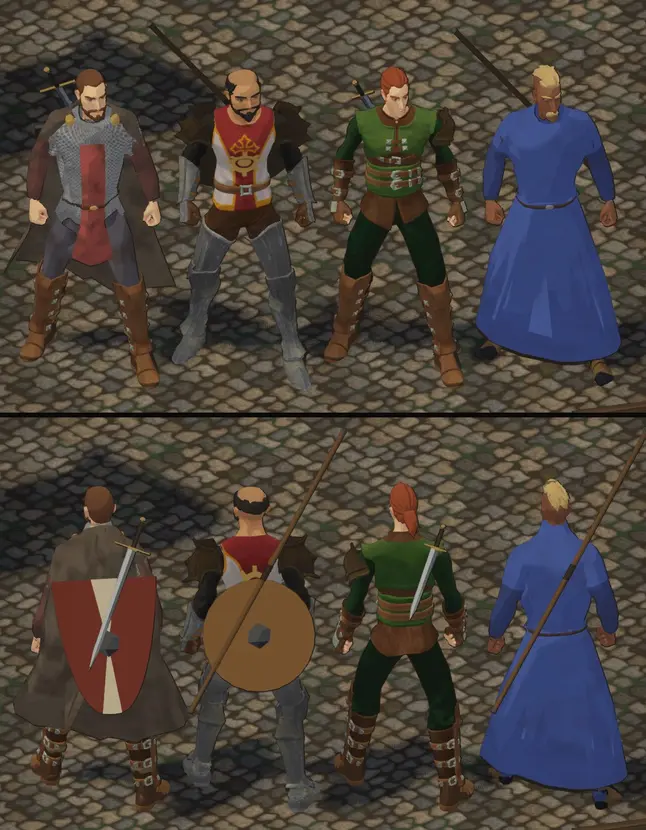
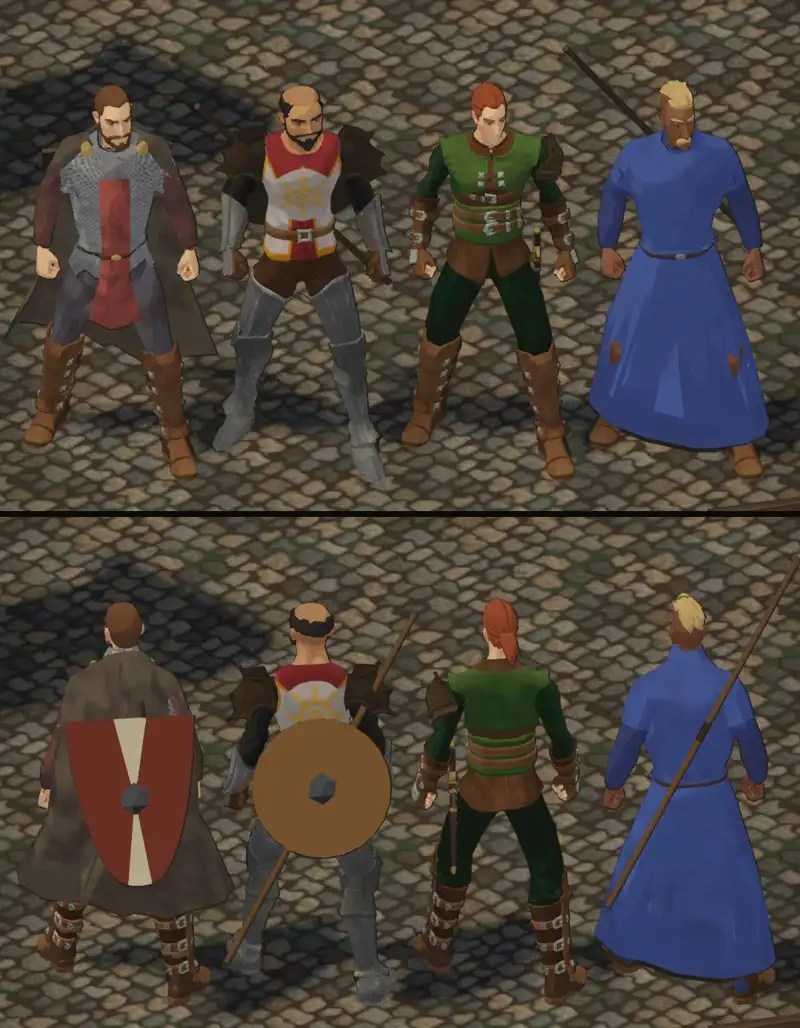
Tom: 376.1 Vorlage Wegstecken und Frisuren
Claude-Session: https://claude.ai/code/session_01Hmoj79vdf3C8wtR4JL21TF

diff --git a/docs/chefsache/ansehen/3761-wegstecken.md b/docs/chefsache/ansehen/3761-wegstecken.md
@@ -1,0 +1,26 @@
+# 376.1 · Waffen wegstecken, mehr Frisuren · Tom · 29.10., 11:38
+
+![376.1 Klassen](../bilder/3761-klassen.webp)
+
+Die vier Klassen von vorn und von hinten. Kämpfer und Kleriker tragen die Waffe auf dem Rücken unter dem Schild. Der Schurke trägt das Kurzschwert in der Scheide am Gürtel, der Zauberer den Stab schräg auf dem Rücken.
+
+![376.1 Waffen](../bilder/3761-waffen.webp)
+
+Weitere Waffen, jeweils von vorn, von links und von hinten (Chef 11:17: „alle Ausrüstungsgegenstände“).
+
+- **Links:** Handbeil unter dem Schild; Krummsäbel in der Scheide; Kurzschwert mit Dolch in zwei Scheiden; Handbeil ohne Schild in der Schlaufe.
+- **Rechts:** Großaxt, Kurzbogen und Speer auf dem Rücken, Kopf oben.
+
+Die Scheide ist aus dem Bestand (Avramania, CC0) und auf die Länge der Klinge gestreckt. Für Streitkolben, Morgenstern, Kriegshammer, Zweihänder, Zweihandhammer, Hellebarde, Langbogen und Armbrust fehlt noch ein Modell. Diese Waffen sind am Helden nicht zu sehen.
+
+![376.1 Frisuren](../bilder/3761-aussehen.webp)
+
+Die zwölf Frisuren, jeweils halb von vorn und halb von hinten. Die sieben ersten waren schon da. Die fünf letzten sind neu, aus dem Frauenpaket auf den Männerkopf umgelegt: Lang, Lange Locken, Hoher Zopf, Pagenkopf, Knoten. Die Namen sind vorläufig, Homer prüft sie (409).
+
+Großbild: Telegram 29.10., 11:4x.
+
+**Was du sagen sollst:**
+1. Passt das Wegstecken so, oder sollen die Waffen unterwegs in der Hand bleiben?
+2. Welche der fünf neuen Frisuren bleiben?
+
+Erledigt: Datei löschen.
